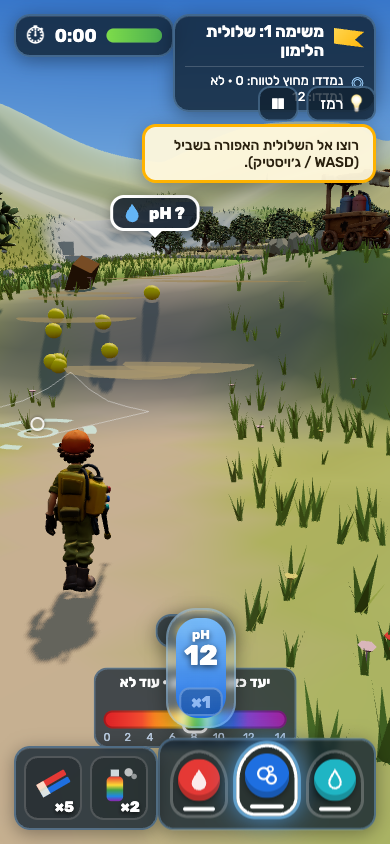
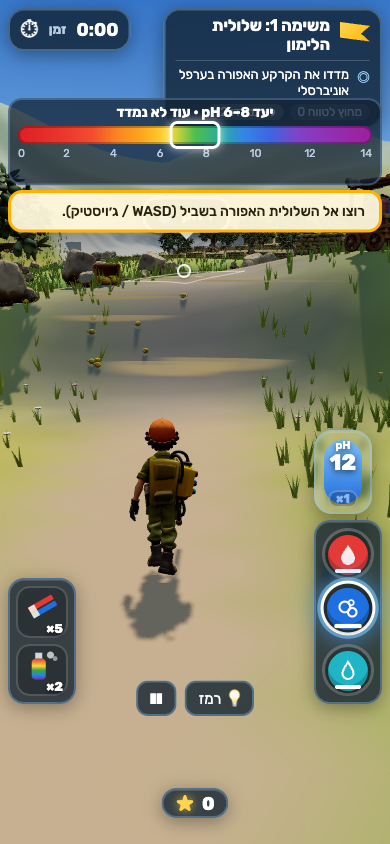
Hide aim aids in menus; remove floating hill blobs; sink hillside cypresses; recaptures

diff --git a/src/render/world.ts b/src/render/world.ts
@@ -875,9 +875,7 @@ export class World {
     hills.receiveShadow = false;
     this.scene.add(hills);
 
-    // Olive groves and cypress dots on the hills, and white villages on a few crests.
-    const blobG = new THREE.IcosahedronGeometry(1.6, 0);
-    const blobs = new THREE.InstancedMesh(blobG, new THREE.MeshStandardMaterial({ color: night ? 0x0d1a12 : 0x5f7a3a, roughness: 1, flatShading: true }), 900);
+    // Cypresses on the hills, and white villages on a few crests.
     const cypModel = this.models.meshOf('cypress', 7);
     let cypG: THREE.BufferGeometry;
     let cypMat: THREE.Material;
@@ -889,32 +887,25 @@ export class World {
       cypG.translate(0, 3.5, 0);
       cypMat = new THREE.MeshStandardMaterial({ color: night ? 0x0a140d : 0x2f5a2a, roughness: 1, flatShading: true });
     }
-    const cyps = new THREE.InstancedMesh(cypG, cypMat, 260);
-    let nb = 0;
+    const cyps = new THREE.InstancedMesh(cypG, cypMat, 200);
     let nc = 0;
-    for (let i = 0; i < 2400 && (nb < 900 || nc < 260); i++) {
+    for (let i = 0; i < 2400 && nc < 200; i++) {
       const a = rand(i * 3.3) * Math.PI * 2;
       const r = r0 + 6 + rand(i * 7.1) * 150;
       const x = cx + Math.cos(a) * r;
       const z = cz + Math.sin(a) * r;
       const h = hillH(x, z, r);
-      if (rand(i * 5.9) < 0.78 && nb < 900) {
-        this.dummy.position.set(x, h - 0.5, z);
-        this.dummy.scale.set(1 + rand(i) * 0.8, 0.8 + rand(i + 1) * 0.5, 1 + rand(i + 2) * 0.8);
-        this.dummy.rotation.set(0, rand(i) * 6, 0);
-        this.dummy.updateMatrix();
-        blobs.setMatrixAt(nb++, this.dummy.matrix);
-      } else if (nc < 260) {
-        this.dummy.position.set(x, h - 0.3, z);
-        this.dummy.scale.setScalar(0.7 + rand(i + 4) * 0.7);
+      if (nc < 200) {
+        // The hill mesh is coarse; sink trunks well below the analytic height so none float.
+        this.dummy.position.set(x, h - 2.2, z);
+        this.dummy.scale.setScalar(0.9 + rand(i + 4) * 0.8);
         this.dummy.rotation.set(0, 0, 0);
         this.dummy.updateMatrix();
         cyps.setMatrixAt(nc++, this.dummy.matrix);
       }
     }
-    blobs.count = nb;
     cyps.count = nc;
-    this.scene.add(blobs, cyps);
+    this.scene.add(cyps);
     const houseM = new THREE.MeshStandardMaterial({ color: night ? 0x3a4250 : 0xf1e8d6, roughness: 1 });
     const winM = new THREE.MeshBasicMaterial({ color: 0xffc766 });
     for (let v = 0; v < 6; v++) {

diff --git a/src/main.ts b/src/main.ts
@@ -926,6 +926,7 @@ function render(dt: number) {
     audio.spraying(has, valve, game.tank.strength);
   } else audio.spraying(false, 'base', 1);
   fx.update(game, dt, !!game.mission.night);
+  fx.showAim(mode === 'play');
   // Ambient beds: rain under the storm, running water near the creek or pond.
   {
     const L = game.mission.layout;

diff --git a/src/render/fx.ts b/src/render/fx.ts
@@ -445,6 +445,12 @@ export class Fx {
     this.aimRing.rotation.z += dt * 0.8;
   }
 
+  /** Hide the aiming aids while menus are up. */
+  showAim(on: boolean) {
+    this.aimRing.visible = on;
+    this.cellBox.visible = on;
+  }
+
   clear() {
     this.drops = [];
     for (const [, o] of this.thrown) this.scene.remove(o);
